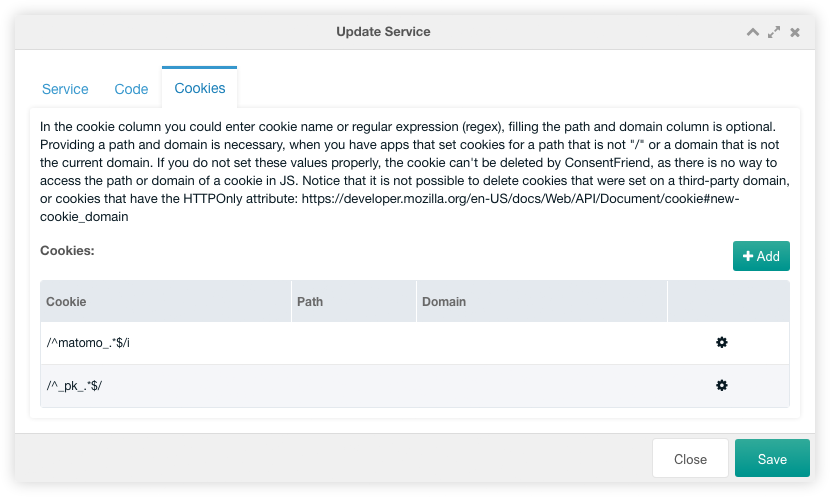
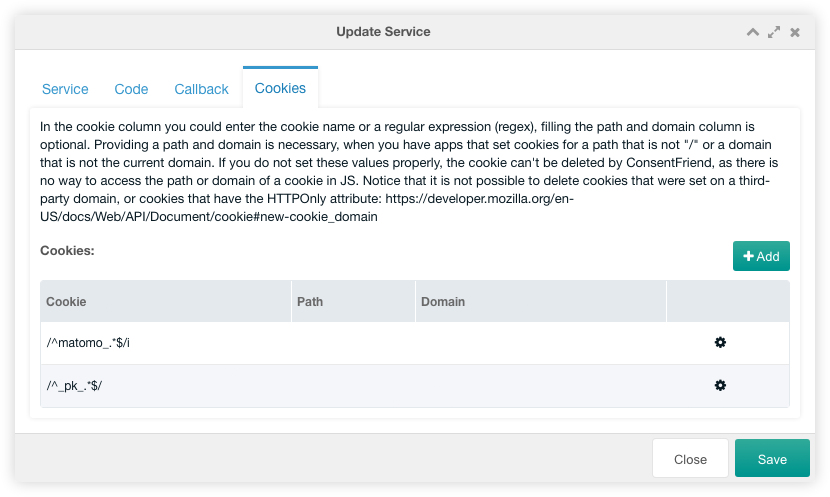
Update docs for 1.2.0

diff --git a/en/02_ConsentFriend/v1/04_System_Settings.md b/en/02_ConsentFriend/v1/04_System_Settings.md
@@ -20,11 +20,12 @@ consentfriend.enable | Enable | Enable ConsentFriend on this installation/contex
 consentfriend.group_by_purpose | Group by Purpose | If enabled, ConsentFriend will group apps by their purpose in the modal. This is advisable if you have a large number of apps. Users can then enable or disable entire groups of apps instead of having to enable or disable every app. | Yes
 consentfriend.hide_decline_all | Hide Decline All | If enabled, ConsentFriend will hide the "decline" button in the consent modal and force the user to open the modal in order to change his/her consent or disable all third-party apps. We strongly advise you to not use this feature, as it opposes the "privacy by default" and "privacy by design" principles of the GDPR (but might be acceptable in other legislations such as under the CCPA). | No
 consentfriend.hide_learn_more | Hide Learn More | If enabled, ConsentFriend will hide the "learn more/customize" link in the consent notice. We strongly advise against using this under most circumstances, as it keeps the user from customizing his/her consent choices. | No
+consentfriend.hide_powered_by | Hide Powered By | If enabled, ConsentFriend will hide the "Realized with ConsentFriend (Powered by Klaro!)" link in the consent modal. | No
 consentfriend.html_texts | HTML Texts | If enabled, ConsentFriend will render the texts given in the `consentModal.description` and `consentNotice.description` translations as HTML. This enables you to e.g. add custom links or interactive content. | -
 consentfriend.js_url | Javascript Url | The Javascript URL for ConsentFriend. | -
 consentfriend.must_consent | Must Consent | If enabled, ConsentFriend will directly display the consent manager modal and not allow the user to close it before having actively consented or declined the use of third-party applications. | No
+consentfriend.no_autoLoad | No Autoload | If enabled, it will keep ConsentFriend from automatically loading itself when the page is being loaded. Available since ConsentFriend 1.2.0. | No
 consentfriend.notice_as_modal | Notice as Modal | If enabled, ConsentFriend will show the cookie notice as modal. | No
 consentfriend.privacy_policy_id | Privacy Policy ID | The ID of a MODX resource containing the privacy policy. | site_start
 consentfriend.storage_method | Storage Method | How ConsentFriend persists consent information in the browser. Specify either "cookie" (the default) or "localStorage". | cookie
-consentfriend.hide_powered_by | Hide Powered By | If enabled, ConsentFriend will hide the "Realized with ConsentFriend (Powered by Klaro!)" link in the consent modal. | No
 consentfriend.theme | Theme | The ConsentFriend [theme](05_Themes.md). Can be changed to "black", "dark", "light", "white". | -

diff --git a/en/02_ConsentFriend/v1/03_Custom_Manager_Page/01_Services.md b/en/02_ConsentFriend/v1/03_Custom_Manager_Page/01_Services.md
@@ -81,6 +81,11 @@ tracking scripts that would generate new page view events every time
 ConsentFriend disables and re-enables them due to a consent change by the
 user.
 
+**Contextual Consent Only:** If "Contextual Consent Only" is checked, the
+service cannot be directly activated globally with the 'Accept All' workflow in
+the consent modal. The service is still hidden by a placeholder, but a second
+button is displayed which allows the user to activate the service globally.
+
 ### Code Tab
 
 In the code tab you can select the code section and enter the service code.
@@ -92,6 +97,21 @@ In the code tab you can select the code section and enter the service code.
 **Code:** The service code, thats injected automatically into the page code. The
 service code will be automatically disabled for a direct execution before the
 injection. MODX context/system settings tags could be used in the service code.
+
+### Callback Tab
+
+In the callback tab you can enter the service callback code.
+
+[![](img/service-callback.png)](img/service-callback.png)
+
+**Callback:** The service callback code thats executed when the service is
+loaded or the initial consent is changed. It must contain a javascript function
+with the two properties `consent` and `service`. `consent` contains the consent
+state (true = consented) and `service` contains the service configuation. 
+
+The demo data of the googleRecaptcha service contains a code example that
+disables all inputs with `data-name="googleRecaptcha"`. Please look into the
+[reCAPTCHA usage example](../02_Functionality/Google_reCAPTCHA.md).
 
 ### Cookies Tab
 

diff --git a/en/02_ConsentFriend/v1/02_Functionality/Google_reCAPTCHA.md b/en/02_ConsentFriend/v1/02_Functionality/Google_reCAPTCHA.md
@@ -21,3 +21,20 @@ not fixed, the `grecaptcha.ready` method has to be wrapped by a method, that is
 executed after the load of the recaptcha script with the onload attribute.
 Otherwise you will get an `Uncaught ReferenceError: grecaptcha is not defined`
 error in the browser console.
+
+The forms that are secured by reCAPTCHA could be modified on changing the
+consent state of the googleRecaptcha service with a callback function. The
+following example is predefined in the demo service data:
+
+```
+function(consent, service) {
+    var buttons = document.body.querySelectorAll('input[data-name="' + service.name + '"],button[data-name="' + service.name + '"]'), index;
+    for (index = 0; index < buttons.length; index++) {
+       buttons[index].disabled = !consent;
+    }
+}
+```
+
+This code disables all inputs with `data-name="googleRecaptcha"`, when no
+consent is given for this service and enables the input after the consent is
+available.

diff --git a/en/02_ConsentFriend/v1/02_Functionality/02_Contextual_Consent.md b/en/02_ConsentFriend/v1/02_Functionality/02_Contextual_Consent.md
@@ -1,0 +1,18 @@
+Contextual consent allows the website to obtain the consent of the users on
+site. This is be used to hide embedded YouTube videos and display a placeholder
+with a consent button inside.
+
+This function can be extended with the service setting 'Contextual Consent
+Only'. If this setting is activated, the service cannot be directly activated
+globally with the 'Accept All' workflow in the consent modal. The service is
+still hidden by a placeholder, but a second button is displayed which allows the
+user to activate the service globally.
+
+The contextual consent feature cannot be disabled, but the consent placeholder
+can be hidden by the following css rule:
+
+```css
+div[data-type="placeholder"] {
+    display: none;
+}
+```

diff --git a/en/02_ConsentFriend/v1/02_Functionality/Youtube_Videos.md b/en/02_ConsentFriend/v1/02_Functionality/Youtube_Videos.md
@@ -5,9 +5,5 @@ to modify i.e. the iframe code with the following code:
 <iframe type="text/plain" data-src="https://www.youtube.com/embed/M7lc1UVf-VE" data-name="youtube" ...>
 ```
 
-To display different content as a replacement for the video, and show a link to the consent management
-window, you can use the following solution:
-[https://github.com/kiprotect/klaro/issues/157#issuecomment-576187791](https://github.com/kiprotect/klaro/issues/157#issuecomment-576187791)
-
-In the future, this will be configurable with a callback script in
-the ConsentFriend service configuration.
+Since ConsentFriend 1.2.0 the embedded YouTube videos are hidden and a
+placeholder with a consent button inside is displayed.

diff --git a/en/02_ConsentFriend/v1/02_Functionality/01_Introduction.md b/en/02_ConsentFriend/v1/02_Functionality/01_Introduction.md
@@ -48,9 +48,13 @@ renamed with `data-src`.
 ### iframe and img tags
 
 Services with an iframe or an img tag need an additional `data-src` attribute
-with the original src i.e. `data-src="https://www.youtube.com/embed/M7lc1UVf-VE"`.
+with the original src i.e. `data-src="https://www.youtube.com/embed/M7lc1UVf-VE"`. 
 The original src attribute has to be removed. Since the type attribute is not 
 valid for iframe tags, it can be removed there.
+
+ConsentFriend will hide an iframe based service and display a placeholder with
+an activation button in place. This feature is called [Contextual
+Consent](02_Contextual_Consent.md) and is used since ConsentFriend 1.2.0.
 
 ### link tags
 
